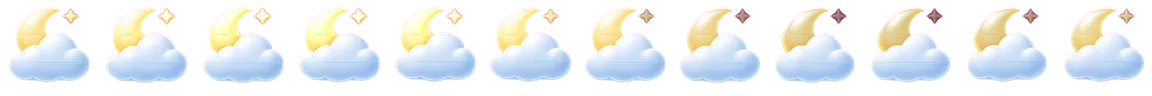
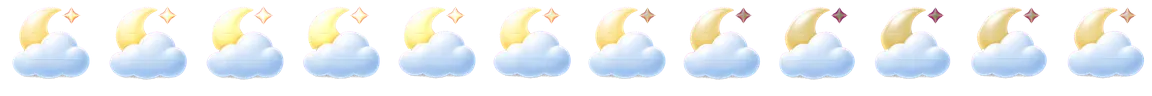
0.27.3: five more animated weather pictures (drizzle, rain, heavy rain, freezing rain, overcast); fix prompt for snow, hail, fog
Claude-Session: https://claude.ai/code/session_015MgUfxYvuaf2H4JGRA2gxD

diff --git a/web/sw.js b/web/sw.js
@@ -1,5 +1,5 @@
 // Offline-first service worker. VERSION is kept equal to version.json by scripts/bump-version.mjs (a unit test enforces it).
-const VERSION = '0.27.2';
+const VERSION = '0.27.3';
 const CACHE = `stepup-${VERSION}`;
 const SHELL = ['./', 'index.html', 'manifest.webmanifest', 'version.json', 'icon.svg', 'css/packs.css', 'css/app.css',
   'js/app.js', 'js/routePlan.js', 'js/planner.js', 'js/planApi.js', 'js/ui/mapScreen.js', 'js/ui/planner.js', 'js/theme-boot.js', 'js/util.js', 'js/i18n.js', 'js/native.js', 'js/icons.js', 'js/brand.js', 'js/brandData.js', 'js/iconData.js', 'js/geo.js', 'js/workout.js', 'js/metronome.js', 'js/cadence.js', 'js/audio.js', 'js/format.js', 'js/store.js', 'js/ui/home.js', 'js/plan.js', 'js/indicators.js', 'js/appVersion.js', 'js/art.js', 'js/voice.js', 'js/records.js', 'js/facts.js', 'js/actions.js', 'js/guide.js', 'js/strings08.js', 'js/strings09.js', 'js/strings10.js', 'js/strings11.js', 'js/appShare.js', 'js/changelog.js', 'js/ui/shareApp.js', 'js/ui/whatsnew.js', 'js/permissions.js', 'js/ui/permissions.js', 'js/characterData.js', 'js/puppetRig.js', 'js/ui/puppet.js', 'js/ui/character.js', 'art/character/walk.webp', 'art/character/run.webp', 'art/character/pose-idle.webp', 'art/character/pose-jump.webp', 'art/character/pose-cheer.webp', 'art/character/pose-wave.webp', 'art/character/pose-rest.webp', 'art/character/pose-stretch.webp', 'art/character/pose-medal.webp', 'art/character/pose-trophy.webp', 'art/character/pose-podium.webp', 'art/character/pose-point.webp', 'art/character/pose-think.webp', 'art/character/pose-sit.webp', 'art/character/pose-sleep.webp', 'art/character/pose-rain.webp', 'js/weatherAnim.js', 'js/weatherAnimData.js', 'js/ui/skynow.js', 'js/ui/weather.js', 'art/weather-anim/clear_day.webp', 'art/weather-anim/clear_night.webp', 'art/weather-anim/drizzle_day.webp', 'art/weather-anim/fog_day.webp', 'art/weather-anim/freezing_rain_day.webp', 'art/weather-anim/hail_day.webp', 'art/weather-anim/heavy_rain_day.webp', 'art/weather-anim/mostly_clear_day.webp', 'art/weather-anim/mostly_clear_night.webp', 'art/weather-anim/overcast_day.webp', 'art/weather-anim/partly_cloudy_day.webp', 'art/weather-anim/partly_cloudy_night.webp', 'art/weather-anim/rain_day.webp', 'art/weather-anim/snow_day.webp', 'art/weather-anim/thunderstorm_day.webp', 'js/ui/guide.js', 'art/workout/banner-afternoon-dark.svg', 'art/workout/banner-afternoon-light.svg', 'art/workout/banner-evening-dark.svg', 'art/workout/banner-evening-light.svg', 'art/workout/banner-morning-dark.svg', 'art/workout/banner-morning-light.svg', 'art/workout/banner-night-dark.svg', 'art/workout/banner-night-light.svg', 'art/workout/card-forest-dark.svg', 'art/workout/card-forest-light.svg', 'art/workout/card-ocean-dark.svg', 'art/workout/card-ocean-light.svg', 'art/workout/card-sunrise-dark.svg', 'art/workout/card-sunrise-light.svg', 'art/workout/count-1-dark.svg', 'art/workout/count-1-light.svg', 'art/workout/count-2-dark.svg', 'art/workout/count-2-light.svg', 'art/workout/count-3-dark.svg', 'art/workout/count-3-light.svg', 'art/workout/count-4-dark.svg', 'art/workout/count-4-light.svg', 'art/workout/count-5-dark.svg', 'art/workout/count-5-light.svg', 'art/workout/count-go-dark.svg', 'art/workout/count-go-light.svg', 'art/workout/hint-double-tap-dark.svg', 'art/workout/hint-double-tap-light.svg', 'art/workout/hint-volume-keys-dark.svg', 'art/workout/hint-volume-keys-light.svg', 'js/ui/workoutShare.js', 'js/shareCard.js', 'js/metrics.js', 'js/gpx.js', 'js/daypart.js', 'js/challenge.js', 'art/celebrate/avatar-frame-dark.svg', 'art/celebrate/avatar-frame-light.svg', 'art/celebrate/confetti-circle-dark.svg', 'art/celebrate/confetti-circle-light.svg', 'art/celebrate/confetti-curl-dark.svg', 'art/celebrate/confetti-curl-light.svg', 'art/celebrate/confetti-rectangle-dark.svg', 'art/celebrate/confetti-rectangle-light.svg', 'art/celebrate/confetti-star-dark.svg', 'art/celebrate/confetti-star-light.svg', 'art/celebrate/confetti-triangle-dark.svg', 'art/celebrate/confetti-triangle-light.svg', 'art/celebrate/distance-record-dark.svg', 'art/celebrate/distance-record-light.svg', 'art/celebrate/fastest-kilometre-dark.svg', 'art/celebrate/fastest-kilometre-light.svg', 'art/celebrate/forest-dark.svg', 'art/celebrate/forest-light.svg', 'art/celebrate/laurel-dark.svg', 'art/celebrate/laurel-light.svg', 'art/celebrate/longest-streak-dark.svg', 'art/celebrate/longest-streak-light.svg', 'art/celebrate/medal-dark.svg', 'art/celebrate/medal-light.svg', 'art/celebrate/most-workouts-week-dark.svg', 'art/celebrate/most-workouts-week-light.svg', 'art/celebrate/ocean-dark.svg', 'art/celebrate/ocean-light.svg', 'art/celebrate/pace-record-dark.svg', 'art/celebrate/pace-record-light.svg', 'art/celebrate/podium-floor-dark.svg', 'art/celebrate/podium-floor-light.svg', 'art/celebrate/podium-steps-dark.svg', 'art/celebrate/podium-steps-light.svg', 'art/celebrate/rays-dark.svg', 'art/celebrate/rays-light.svg', 'art/celebrate/ribbon-dark.svg', 'art/celebrate/ribbon-light.svg', 'art/celebrate/sunrise-dark.svg', 'art/celebrate/sunrise-light.svg', 'art/celebrate/trophy-dark.svg', 'art/celebrate/trophy-light.svg', 'js/podiumCard.js', 'js/ui/podium.js', 'js/mapView.js', 'js/ui/maptiles.js', 'js/backup.js', 'js/ui/backup.js', 'art/badges/almost-distance-dark.svg', 'art/badges/almost-distance-light.svg', 'art/badges/almost-record-dark.svg', 'art/badges/almost-record-light.svg', 'art/badges/faster-last-dark.svg', 'art/badges/faster-last-light.svg', 'art/badges/fastest-km-dark.svg', 'art/badges/fastest-km-light.svg', 'art/badges/new-record-dark.svg', 'art/badges/new-record-light.svg', 'art/badges/passed-distance-dark.svg', 'art/badges/passed-distance-light.svg', 'art/onboarding/caught-up-dark.svg', 'art/onboarding/caught-up-light.svg', 'art/onboarding/no-plan-dark.svg', 'art/onboarding/no-plan-light.svg', 'art/onboarding/no-routes-dark.svg', 'art/onboarding/no-routes-light.svg', 'art/onboarding/no-workouts-dark.svg', 'art/onboarding/no-workouts-light.svg', 'art/onboarding/offline-dark.svg', 'art/onboarding/offline-light.svg', 'art/onboarding/welcome-dark.svg', 'art/onboarding/welcome-light.svg', 'art/weather/clear-dark.svg', 'art/weather/clear-light.svg', 'art/weather/cloudy-dark.svg', 'art/weather/cloudy-light.svg', 'art/weather/cold-dark.svg', 'art/weather/cold-light.svg', 'art/weather/hot-dark.svg', 'art/weather/hot-light.svg', 'art/weather/rain-dark.svg', 'art/weather/rain-light.svg', 'art/weather/windy-dark.svg', 'art/weather/windy-light.svg', 'js/update.js', 'js/strings07.js', 'js/ui/about.js', 'js/strings06.js', 'js/ui/plan.js', 'js/schedule.js', 'js/widgetData.js', 'js/syncNative.js', 'js/strings05.js', 'js/route.js', 'js/routeReco.js', 'js/strings04.js', 'js/ui/routes.js', 'js/ui/livemap.js', 'js/forecast.js', 'js/reco.js', 'js/weatherApi.js', 'js/strings03.js', 'js/ui/reco.js', 'js/stats.js', 'js/steps.js', 'js/effort.js', 'js/reminders.js', 'js/alerts.js', 'js/search.js', 'js/charts.js', 'js/reminderLoop.js', 'js/strings02.js', 'js/ui/dashboard.js', 'js/ui/alerts.js', 'js/ui/search.js', 'js/ui/notify.js', 'js/ui/settings.js', 'js/ui/history.js', 'js/ui/workout.js', 'js/ui/rhythm.js',

diff --git a/web/js/changelog.js b/web/js/changelog.js
@@ -1,5 +1,8 @@
 // "What is new", in the app's two languages: user-facing bullets only, newest first. docs/CHANGELOG.md is the developer copy (a unit test keeps the two in step).
 export const CHANGES = [
+  { v: '0.27.3',
+    en: ['Drizzle, rain, heavy rain, freezing rain and overcast pictures now animate: falling drops, ice crystals and drifting clouds.'],
+    he: ['תמונות הטפטוף, הגשם, הגשם הכבד, הגשם הקפוא והמעונן מונפשות עכשיו: טיפות נופלות, גבישי קרח ועננים נעים.'] },
   { v: '0.27.2',
     en: ['The thunderstorm picture is fixed: steady lightning, falling rain and a cloud that flashes.'],
     he: ['תמונת סופת הרעמים תוקנה: ברק יציב, גשם יורד וענן שמהבהב.'] },

diff --git a/web/js/appVersion.js b/web/js/appVersion.js
@@ -1,2 +1,2 @@
 // The version of the code that is running (kept equal to version.json by scripts/bump-version.mjs; a unit test enforces it).
-export const APP_VERSION = '0.27.2';
+export const APP_VERSION = '0.27.3';

diff --git a/docs/PENDING_CHATGPT_PROMPTS.md b/docs/PENDING_CHATGPT_PROMPTS.md
@@ -4,7 +4,8 @@
 |---|---|---|---|---|
 | 1 | `docs/prompts/STYLE_SYSTEM_PROMPT.md` | design language, palette, base icons | - | ✅ returned as the "Momentum" kit; tokens + 54 UI icons integrated (0.2.0). Art, backgrounds, badges, widgets, brand mark were placeholders |
 | 8 | `docs/prompts/ROUND8_PROMPT.md` | **the walking and running characters** (unique round emblems + animated walk / run cycles), **a redesigned, animated version of every UI icon** (layers, signature trail dot, `class="m-*"` animation parts), the **speedometer / pace gauge** (needle driven by a CSS variable), active navigation states, motion spec + CSS + preview page | all icons, start cards, the speed and pace numbers on the workout screen | **ready - owner to paste into ChatGPT**. Integration needs `class`/`id` allowed in `scripts/build-design.mjs` and a motion switch ("calm animations") |
-| 13 | `docs/prompts/ROUND13_WEATHER_MOTION_PROMPT.md` | **the remaining 8 weather animations** (drizzle, rain, heavy rain, freezing rain, snow, hail, fog, overcast) redone with real motion like the 7 reworked ones: separate particle sprites with a seamless wrap, a cloud that only breathes, exact #FF00FF background, frame 01 kept, 12 frames at 8 fps, measured self-check; delivered in three zips | the 8 weather pictures that are still nearly still (the other 7 are integrated in 0.27.1, the fixed thunderstorm in 0.27.2) | ⏳ prompt written, waiting for the owner to send it to ChatGPT |
+| 14 | `docs/prompts/ROUND14_WEATHER_FIX_PROMPT.md` | **fix three weather animations**: snow (whole visible flakes, readable on light and dark), hail (whole round stones, not half moons), fog (neutral soft bands, no dark smears) | snow, hail and fog keep their earlier (nearly still) pictures until this returns | ⏳ prompt written, waiting for the owner to send it to ChatGPT |
+| 13 | `docs/prompts/ROUND13_WEATHER_MOTION_PROMPT.md` | **the remaining 8 weather animations** (drizzle, rain, heavy rain, freezing rain, snow, hail, fog, overcast) redone with real motion like the 7 reworked ones: separate particle sprites with a seamless wrap, a cloud that only breathes, exact #FF00FF background, frame 01 kept, 12 frames at 8 fps, measured self-check; delivered in three zips | the 8 weather pictures that are still nearly still (the other 7 are integrated in 0.27.1, the fixed thunderstorm in 0.27.2) | ✅ returned; five of the eight integrated in 0.27.3 (drizzle, rain, heavy rain, freezing rain, overcast); snow, hail and fog failed the visual check -> ROUND14 |
 | 12 | `docs/prompts/ROUND12_PUPPET_PROMPT.md` | **option 3 chosen by the owner: animate the character in code as a paper puppet.** 14 body parts drawn complete with round joint ends, a strict 4 x 3 sheet on flat magenta with the pivot of every part at the cell centre marked by a cyan cross, an assembled reference, a numeric self-check; stage 2 adds expressions and hands. The rig engine (`puppetRig.js`, `ui/puppet.js`) is built in parallel; if this proves too fragile the 0.23.0 sprites stay (option 1) | seamless walk / run loops by construction | returned as `StepUp_Puppet_Reference` (a single 1536 x 1024 concept preview with dividers, labels and a table, not the 2048 x 1536 parts sheet; its own README says "not a production rig, do not slice"). Reviewed: the parts are drawn **front view** (front-facing head, symmetrical shirt, arms like a doll) so they do not fit a side-view walk / run, the pivots are not at the cell centres and the reference figure was not assembled from the parts. **Decision: back to option 1** (the 0.23.0 sprites stay); the engine stays in the repo for a future attempt |
 | 11 | `docs/prompts/ROUND11_ANIMATION_PROMPT.md` | **follow-up to the character kit (#10, integrated in 0.23.0)**: true seamless 8-frame walk and run loops with a real flight phase, exact registration (baseline, hip x, scale), solid magenta background instead of transparency (the halos came from there), idle / wave / on-your-marks / jump-for-joy / panting / sleeping / finish-line sequences, static poses and 8 expressions, with a numeric self-check | smoother animation, the countdown crouch, more screens | returned as the **Revision packages** (2 zips): reviewed, **not integrated** - the package itself says it is draft, not validated loops; the walk / run frames are the old drawings re-normalised by bounding box (so the scale pumps: the head grows in the run flight frame), the right half is not a true mirror, the pose sheets are carried over and none of the new sequences (idle, wave, on-your-marks, jump, panting, sleeping, finish line) were delivered. The magenta background itself is usable (pink spill on the shoe soles would need despilling). The 0.23.0 sprites stay |
 | 10 | `docs/prompts/ROUND10_CHARACTER_PROMPT.md` | **new direction chosen by the owner: a standalone, good-looking original character (no logo), illustrated, then animated.** Stage 1 three concept directions, stage 2 the model sheet, stage 3 walk / run cycles (8 frames each) + 16 poses as transparent sprite sheets, stage 4 optional puppet parts. Integration plan: cut the cells, compact WebP sprite sheets, CSS `steps()` frame animation, still frame for the calm switch | the character everywhere a person is shown (replaces the vector rig if it is better) | **returned (concept package, 2 zips) and integrated in 0.23.0**: walk / run strips and 14 poses cleaned by `scripts/make-character-sprites.py`; still wanted for later: true walk / run loops, a ready / crouch pose for the countdown, more expressions |

diff --git a/docs/prompts/ROUND14_WEATHER_FIX_PROMPT.md b/docs/prompts/ROUND14_WEATHER_FIX_PROMPT.md
@@ -1,0 +1,18 @@
+Continue in this same conversation, with the same weather icon set ("ClockWise precipitation" files). Use your image-generation and code tools; if you cannot generate images or measure them, tell me now and stop.
+
+## 1. WHAT I FOUND
+I integrated five of the eight sets (drizzle, rain, heavy rain, freezing rain, overcast): the motion, the loop and the clean magenta are good. **Three sets failed my visual check at 2x zoom on a light and on a dark background. Redo ONLY these three: `snow_day`, `hail_day`, `fog_day`.** (The second upload you called "corrections" was byte-for-byte identical to the first one: please really change the files this time and tell me what you changed.)
+
+1. **snow_day** - the flakes are **broken fragments** (small bars, dots and half-flakes), and the white flakes are **almost invisible on a light background**. I need **complete, readable six-pointed snowflakes** (a clear six-arm star with a tiny round centre) and some round soft dots, **each flake whole in every frame** (no cut pieces), in a **pale icy blue (#BFE3FF to #8FC3F0) with a thin slightly darker blue-grey edge (#6FA4D6)**, so they read on BOTH a white and a near-black (#161C22) background. Sizes: near 26 px, far 16 px (in the 512 cell). 10 flakes, falling slowly (about 18 px per frame) with a sway of +-10 px and a slow rotation of +-12 degrees; they enter with a short fade at the top and leave with a short fade at the bottom.
+2. **hail_day** - the stones are **cut in half (D-shaped half moons)**. I need **whole round stones** (a circle about 20 px near, 13 px far) in white to pale blue with a small highlight and the same thin blue-grey edge (#6FA4D6), **9 of them**, falling fast (about 70 px per frame); **each stone hops once** (about 14 px up) near the bottom and then fades. No clipping by the cell border.
+3. **fog_day** - the bands have **dark smears and black fringes on a dark background** and a strong pink colour. I need **three soft horizontal bands in a neutral pale grey-blue (#C9D6E8) at 55 % opacity with feathered ends**, **no black or dark pixels anywhere**, drifting sideways in opposite directions (about 14 px per frame, wrapping with a soft fade at the picture edges) while their opacity breathes +-12 %. The cloud on top stays as it is (it may bob 3 px).
+
+## 2. THE RULES (unchanged from the last round)
+- Frame 01 of each set = the frame 01 I already integrated for that condition (I will send it again if you do not have it). 12 frames, 512 x 512, **background exactly #FF00FF (255, 0, 255)**, flat; 8 frames per second = a 1.5 s loop; the loop must close as smoothly as any other step (frame 12 to frame 01 no bigger than the biggest neighbouring change). The cloud is never deformed (drift +-8 px, bob +-4 px, brightness +-10 %). Particles are separate opaque sprites, **drawn at full opacity** (no semi-transparent flakes or stones that blend into the magenta: fade them only by the short fades above and make sure the faded pixels are not pink/purple). No flashing; no text; original work only; tell me honestly whether the files are free to use.
+- Every sprite must stay readable at 56 px: test it yourself by scaling a frame to 96 px and 56 px on #FFFFFF and on #161C22 and look at it before you send.
+
+## 3. FILES
+For each of the three conditions: `wxa_<condition>_01.png` ... `_12.png`, `wxa_<condition>_sheet.png` (4 x 3, 2048 x 1536), `<condition>_preview.gif`, and one `README.txt`. Deliver all three in one zip. Show me the three contact sheets at full size, and one extra picture of each condition scaled to 96 px on white and on #161C22 side by side.
+
+## 4. SELF-CHECK (real numbers in the README)
+For each condition: the smallest / largest mean change between neighbouring frames and the frame 12 -> 01 change; the number of whole particles per frame (counted on the image, not nominal); the number of pixels in the 6 px border that are not exactly (255, 0, 255) (must be 0); the number of "pinkish" pixels (red and blue each more than 40 above green) outside the intended colours (must be 0); the number of pixels darker than (60, 60, 60) in the fog and snow areas (must be 0); the cloud bounding box in every frame; the biggest brightness change between neighbouring frames (<= 10 %). If a number misses its target, fix it and measure again before you send.

diff --git a/docs/CHANGELOG.md b/docs/CHANGELOG.md
@@ -1,5 +1,10 @@
 # Changelog
 
+## 0.27.3
+- **Five more weather pictures come alive**: drizzle, rain, heavy rain, freezing rain and overcast now use the illustrator's new loops (falling drops in two sizes, ice crystals mixed into the freezing rain, two clouds drifting in the overcast). Checked: clean magenta borders in every frame, 12 distinct frames, loops that close, motion of 4-9 per frame (it was under 1).
+- **Not replaced yet** (they failed the check, the earlier pictures stay): *snow* (the flakes are broken fragments and nearly invisible on the light theme), *hail* (the stones are cut in half, D-shaped) and *fog* (dark smears on the bands in the dark theme). A correction prompt is in `docs/prompts/ROUND14_WEATHER_FIX_PROMPT.md`.
+- A second upload with the same names ("corrections") was byte-for-byte identical to the first; nothing differed.
+
 ## 0.27.2
 - **Thunderstorm picture fixed**: the corrected set replaces the 0.27.1 one - eight raindrops fall in a loop, the cloud pulses twice per loop like distant flashes, the bolt stays steady (no more flicker) and the keyed background is exactly magenta, so the edges are clean (0 magenta-ish edge pixels). The corrected sheet is kept in `design/stepup/weather-motion/thunderstorm_day_fixed_sheet.jpg`. Known from the illustrator's notes: the drops jump back to the top at the end of their fall (no fade).
 

diff --git a/docs/REQUESTS.md b/docs/REQUESTS.md
@@ -108,3 +108,4 @@ Status: ✅ shipped (version) · 🟡 partly (what is missing) · ⛔ not possib
 | 91 | Weather drill-down: the weather at a chosen hour with rain, humidity and temperature, for the current location, another place or a chosen route | ✅ 0.27.0 (`#/weather`) |
 | 92 | After Start: location, distance and route are automatic and measuring begins only when the activity really starts (by pace and movement, especially for a run) | ✅ 0.27.0 (needs a real walk / run to tune the thresholds) |
 | 93 | A ChatGPT prompt for the remaining 8 weather animations (drizzle, rain, heavy rain, freezing rain, snow, hail, fog, overcast) | ✅ docs/prompts/ROUND13_WEATHER_MOTION_PROMPT.md (waiting for the owner to run it) |
+| 94 | The reworked precipitation animations integrated; fix prompt for snow, hail, fog | ✅ 0.27.3 (5 of 8) + docs/prompts/ROUND14_WEATHER_FIX_PROMPT.md |
